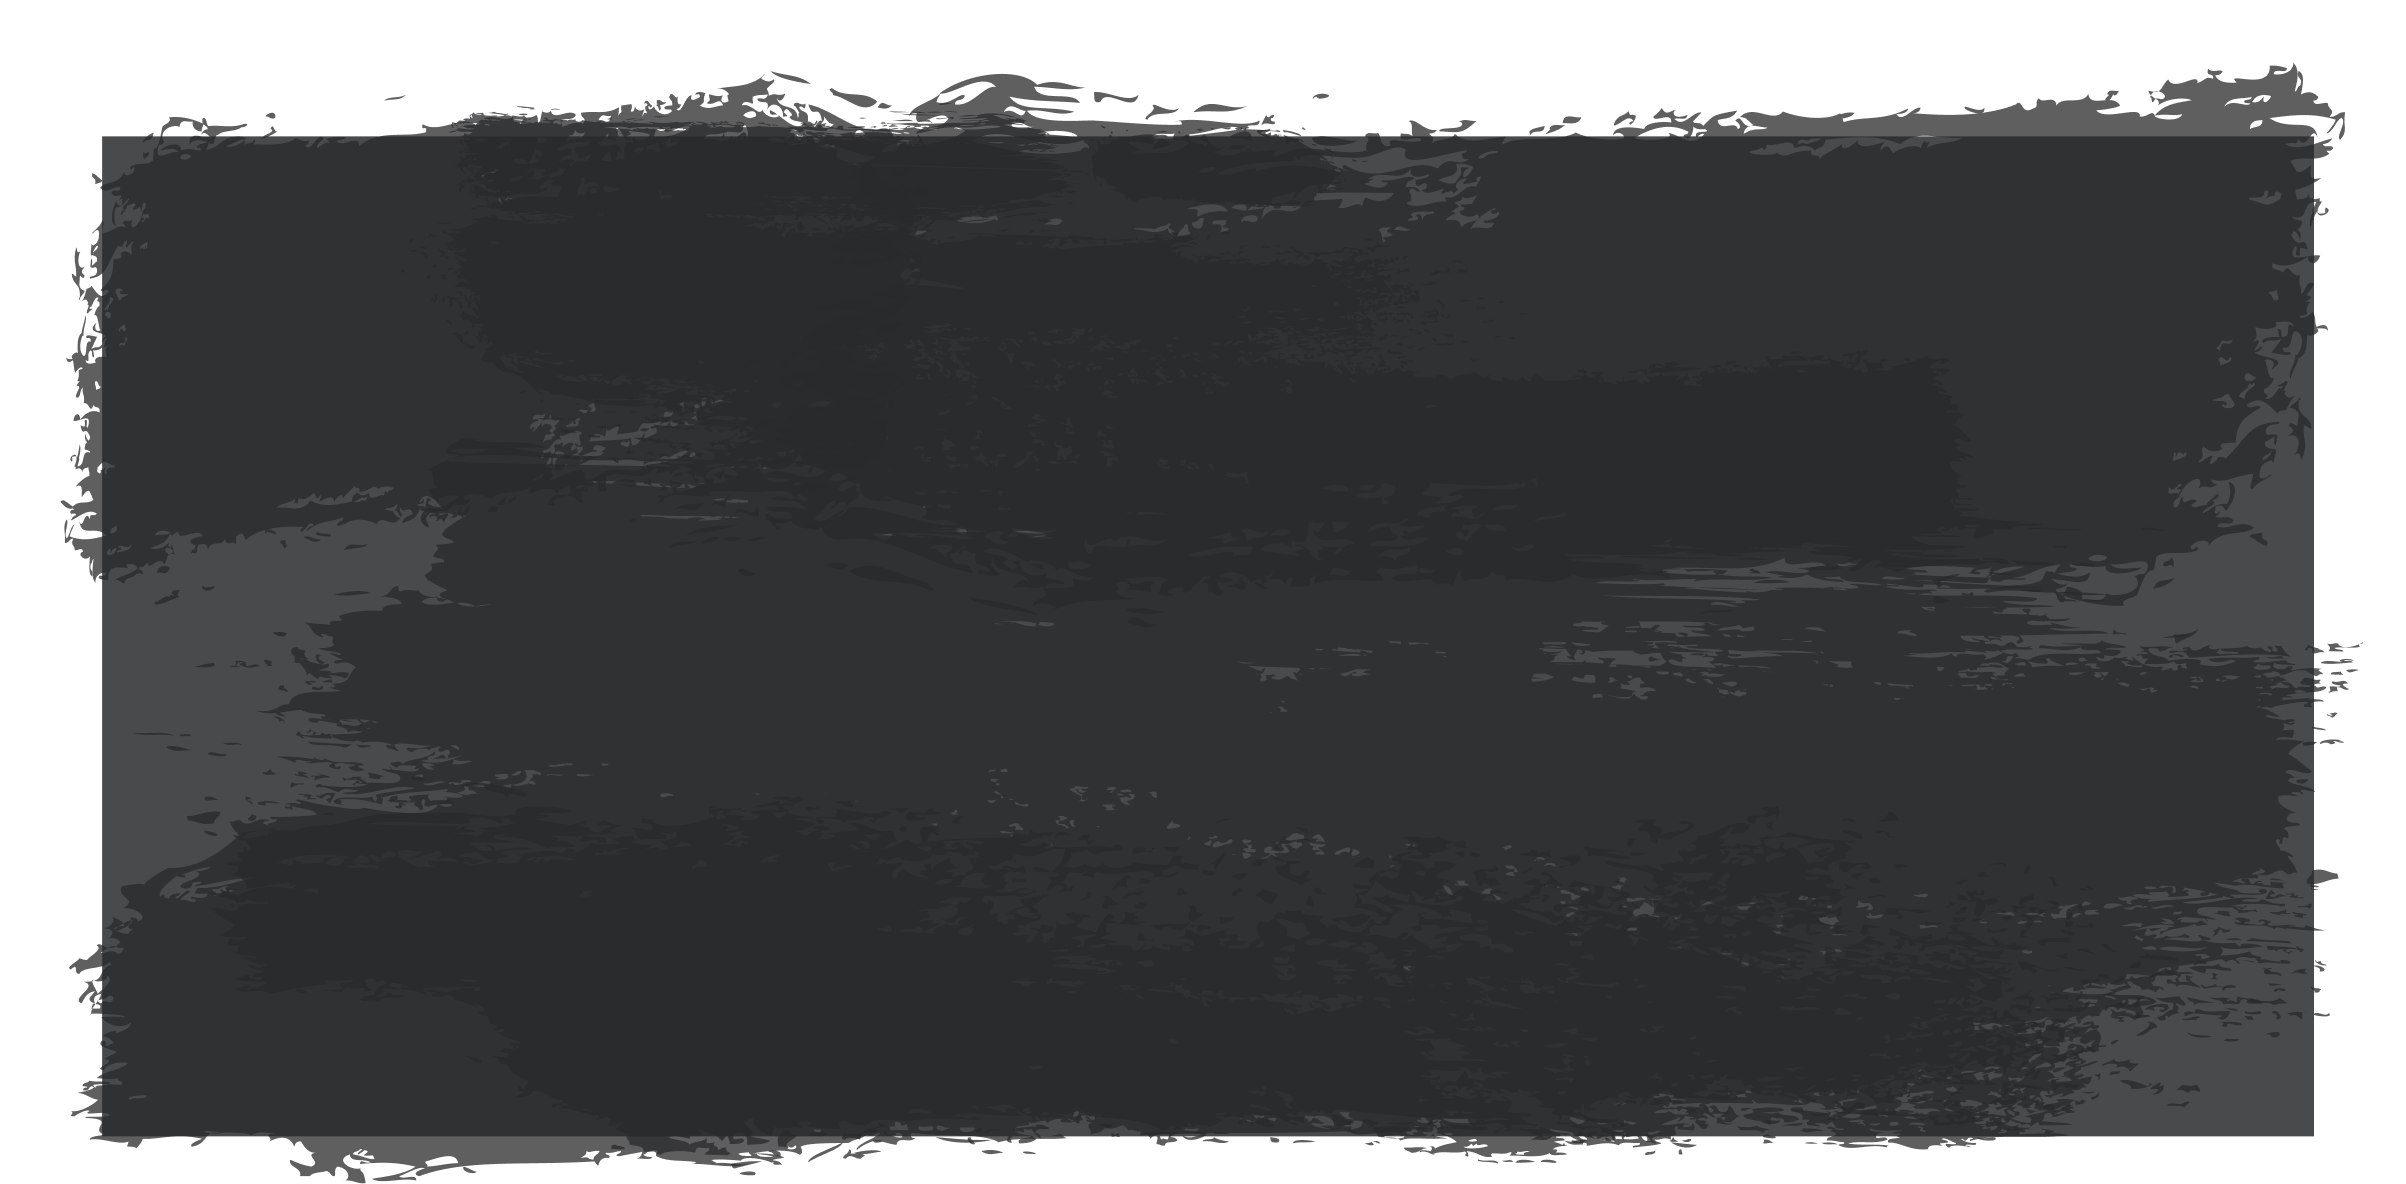
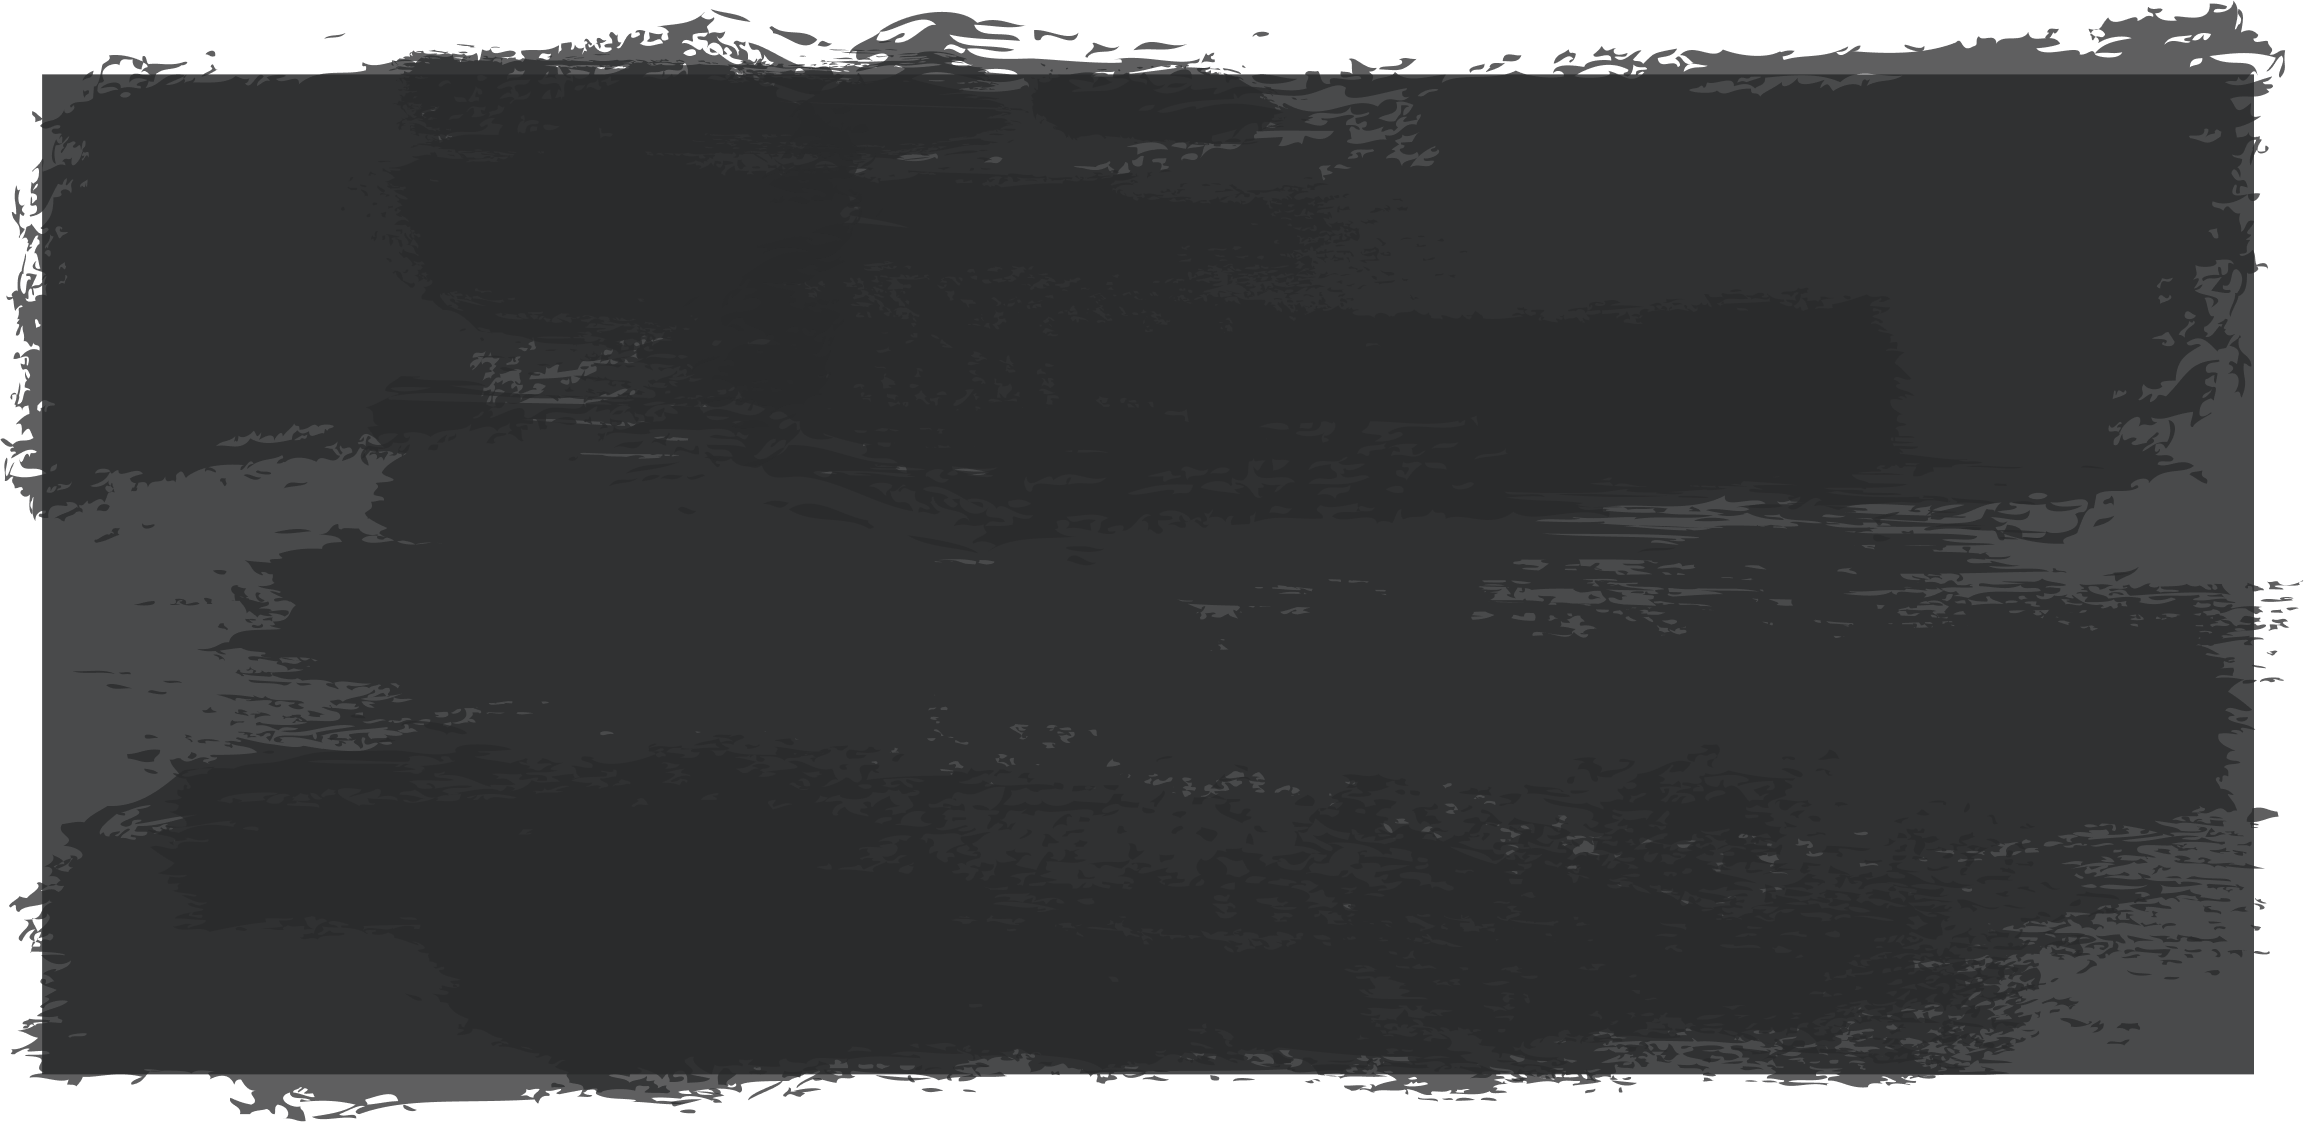
proejct page background

Changed region(s): [[0.0, 0.0, 1.0, 1.0], [0.2188, 0.3119, 0.2812, 0.3743], [0.5, 0.6863, 0.5625, 0.7175]]

diff --git a/src/features/Layout/templates/Grid/index.js b/src/features/Layout/templates/Grid/index.js
@@ -1,0 +1,51 @@
+import React from "react";
+import PropTypes from "prop-types";
+import classnames from "classnames";
+import Layout from "./";
+import { Col, Row } from "components/Grid";
+import Mdx from "features/Mdx";
+
+const Grid = ({ className, columns }) => {
+  return (
+    <Row className={classnames({ TxGrid: true, [`${className}`]: className })}>
+      {columns.length &&
+        columns.map((col, i) => (
+          <Col className={col.className} size={col.size} desktop={col.desktop}>
+            <Mdx>{col.body}</Mdx>
+          </Col>
+        ))}
+    </Row>
+  );
+};
+
+const sizeEnum = [
+  "auto",
+  "1",
+  "2",
+  "3",
+  "4",
+  "5",
+  "6",
+  "7",
+  "8",
+  "9",
+  "10",
+  "11",
+  "12",
+];
+
+Grid.defaultProps = {
+  columns: [],
+};
+
+Grid.propTypes = {
+  className: PropTypes.string,
+  columns: PropTypes.shape({
+    className: PropTypes.string,
+    size: PropTypes.oneOf(sizeEnum),
+    desktop: PropTypes.oneOf(sizeEnum),
+    content: PropTypes.array,
+  }),
+};
+
+export default Grid;

diff --git a/src/templates/Primary/index.js b/src/templates/Primary/index.js
@@ -6,7 +6,6 @@ import Logo from "components/Logo";
 import Footer from "./Footer";
 import useOnPathChange from "utils/useOnPathChange";
 import registerAnalytics from "utils/registerAnalytics";
-import { useLocation } from "react-router-dom";
 import { getMenuList } from "app/MenuModule";
 import { getFooterList, getSettings } from "app/SettingsModule";
 
@@ -22,18 +21,15 @@ const Primary = ({ children }) => {
     registerAnalytics();
   });
 
-  const { pathname } = useLocation();
-
   const page = useSelector((state) => state.content.page);
   /* istanbul ignore next */
-  const { meta = {} } = page.data;
-
+  const { meta = {}, type } = page.data;
+  const theme = type === "project" ? "5" : meta.theme;
   return (
     <div
       className={classnames({
         "usa-app": true,
-        "usa-app__theme-projects": pathname.includes("projects"),
-        [`usa-app__theme-${meta.theme}`]: Boolean(meta.theme),
+        [`usa-app__theme-${theme}`]: Boolean(theme),
       })}
     >
       <div className="usa-app__bg">

diff --git a/src/features/Layout/index.js b/src/features/Layout/index.js
@@ -4,6 +4,7 @@ import { Grid } from "components/Grid";
 import Break from "components/Break";
 import Callout from "./templates/Callout";
 import Cards from "./templates/Cards";
+import GridModule from "./templates/Grid";
 import Links from "./templates/Links";
 import List from "./templates/List";
 import Mdx from "features/Mdx";
@@ -14,6 +15,7 @@ const components = {
   break: Break,
   callout: Callout,
   cards: Cards,
+  grid: GridModule,
   links: Links,
   list: List,
   markdown: ({ body, className }) => (
@@ -28,6 +30,9 @@ const components = {
 const Layout = ({ items, data }) => {
   return items.map(({ type, fullwidth, ...props }, i) => {
     const Comp = components[type];
+    if (!Comp) {
+      return null;
+    }
     return Comp ? (
       fullwidth ? (
         <Comp key={`txLayout-${++i}`} {...props} data={data} />

diff --git a/src/styles/custom/_root.scss b/src/styles/custom/_root.scss
@@ -88,7 +88,7 @@ h5 {
     );
 
     .usa-app__bg {
-      background-image: url("~styles/images/portfolio-background-Xs.png");
+      background-image: url("~styles/images/theme-2-bg.png");
       background-repeat: no-repeat;
       background-position-x: center;
       background-position-y: 120px;
@@ -112,6 +112,23 @@ h5 {
       rgba(255, 104, 57, 0.25) 58.64%,
       rgba(255, 104, 57, 0.05) 87.96%
     );
+  }
+
+  &__theme-5 {
+    background: linear-gradient(
+      180deg,
+      #{$x-charcoal} 2px,
+      #{$x-lead} 1400px,
+      #{$x-smoke} 2800px
+    );
+
+    .usa-app__bg {
+      background-image: url("~styles/images/theme-5-bg.png");
+      background-repeat: no-repeat;
+      background-position-x: left;
+      background-position-y: 90%;
+      background-size: contain;
+    }
   }
 }
 

diff --git a/src/templates/Primary/Footer.js b/src/templates/Primary/Footer.js
@@ -35,9 +35,11 @@ const Footer = () => {
                 tablet="3"
                 className="text-right padding-top-4 desktop:padding-top-0"
               >
-                <Button url={data.button.link} color="primary-lighter">
-                  {data.button.text}
-                </Button>
+                {data.button && (
+                  <Button url={data.button.link} color="primary-lighter">
+                    {data.button.text}
+                  </Button>
+                )}
               </Col>
             </Row>
           )}

diff --git a/src/styles/custom/_txCallout.scss b/src/styles/custom/_txCallout.scss
@@ -55,8 +55,18 @@
       );
 
       @include at-media("desktop") {
-        margin: -3rem -3rem 0 1rem;
-        padding: 7rem 6rem 3rem;
+        margin-top: 0;
+        padding-top: 2rem;
+
+        margin-right: 0;
+        padding-right: 0;
+
+        margin-bottom: 0;
+        padding-bottom: 2rem;
+
+        margin-left: 0;
+        padding-left: 0;
+
         background-image: url("~styles/images/phases-background.png");
         background-size: 100% 100%;
         background-position-x: center;
